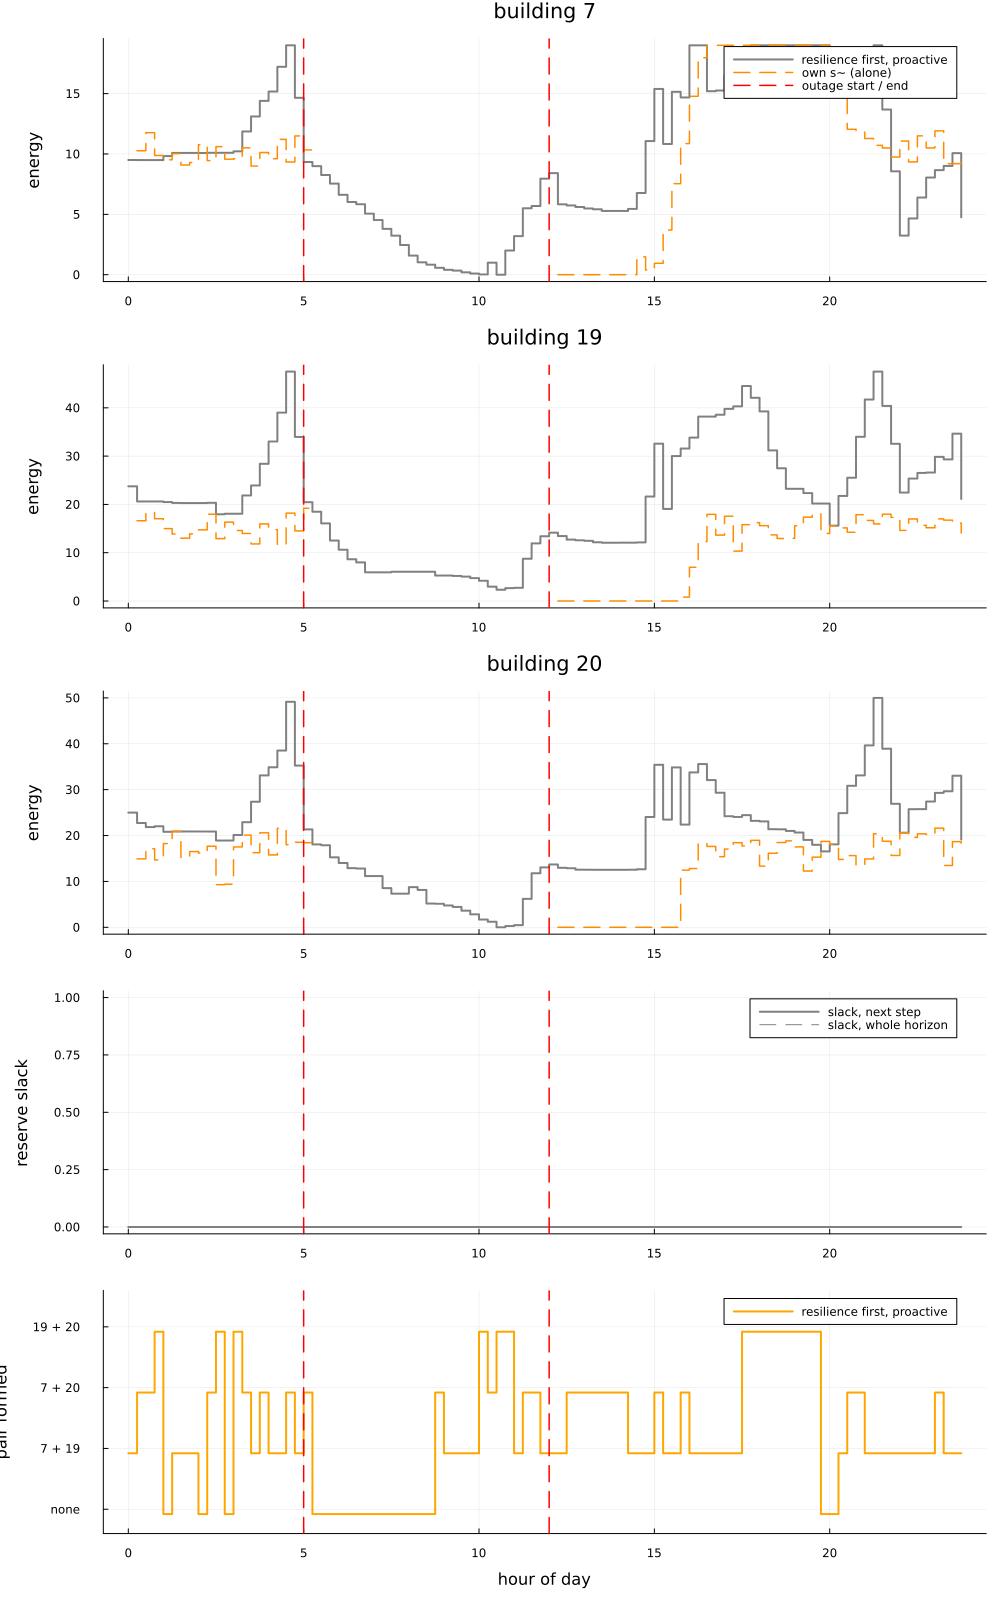
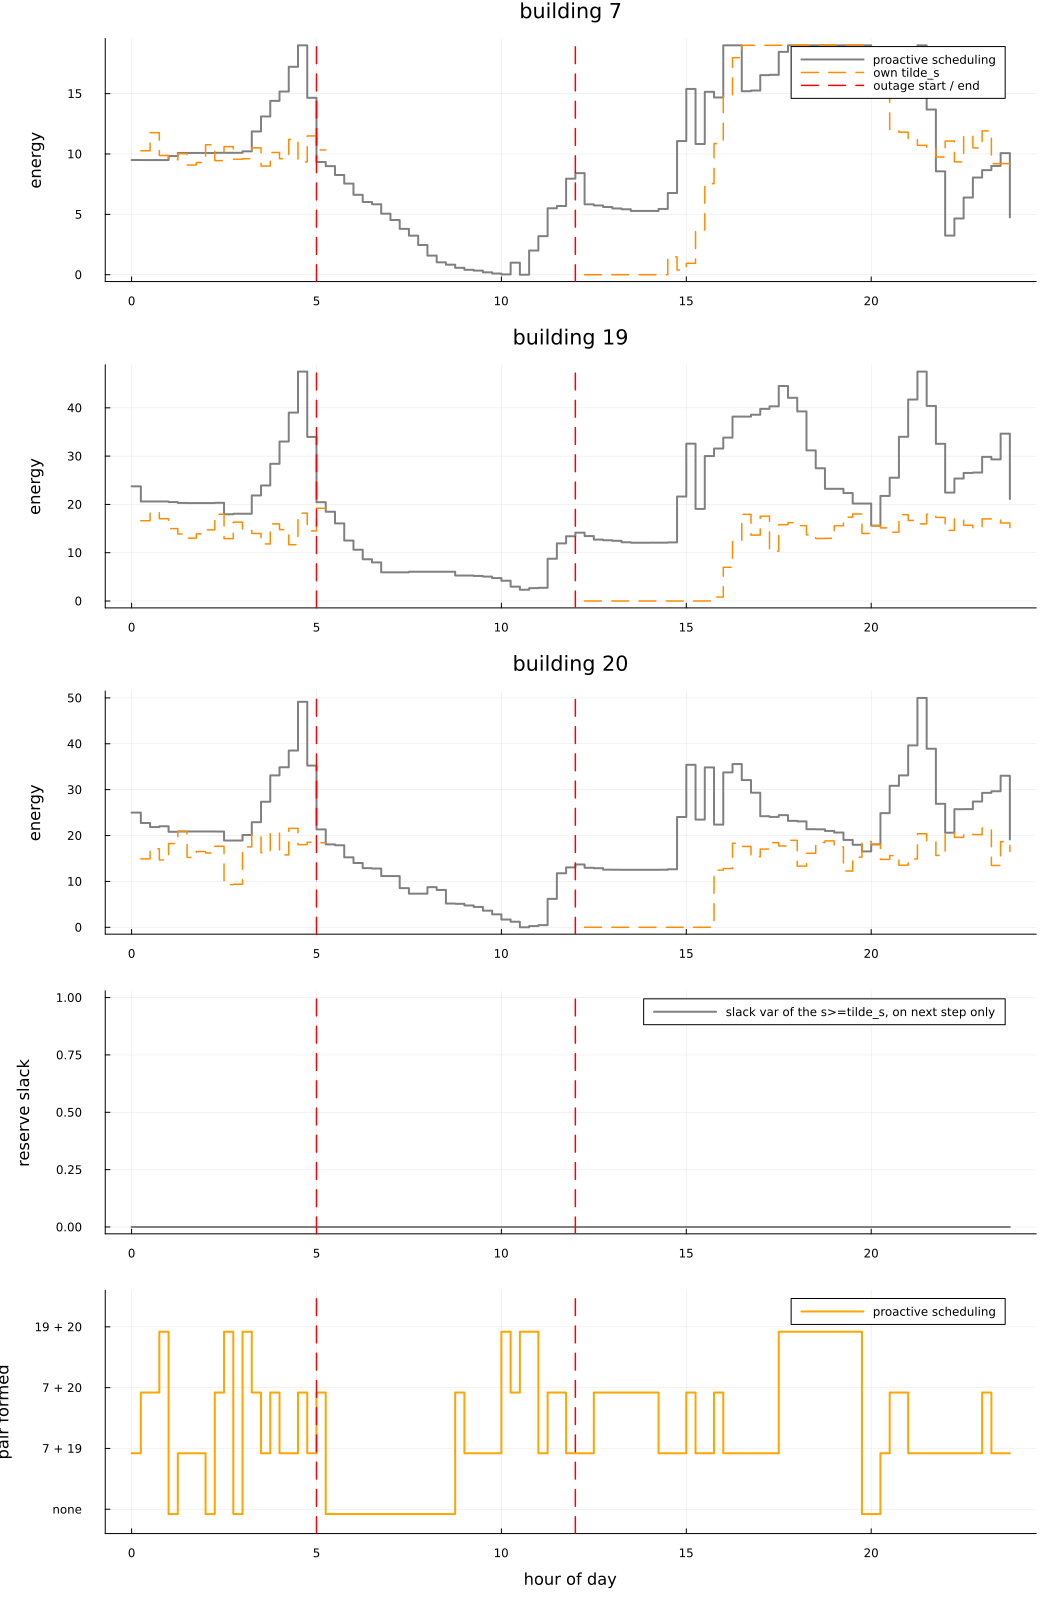
Results refined

diff --git a/resilience/plot_buildings.py b/resilience/plot_buildings.py
@@ -1,21 +1,5 @@
 """
-Plot the load and renewable generation of selected synthetic buildings, one figure per building.
-
-By default it plots the three buildings of resilience/test_three_buildings.jl (IDS = [19, 1, 4]:
-school 19, solar farm 1, office 4) on day 1, i.e. the first 96 rows, which is what that test simulates.
-
-    python synthetic_data/plot_buildings.py                          # buildings 19, 1, 4, day 1
-    python synthetic_data/plot_buildings.py -b 19 1 4 7 --days 2     # other buildings, two days
-    python synthetic_data/plot_buildings.py --start-day 3 --forecast # day 3, with the forecasts
-    python synthetic_data/plot_buildings.py --format png pdf --show
-
-Columns read from cleaned_data/<id>.csv:
-    actual_consumption_mean    realised load (act_cons in the Julia code)
-    actual_pv_mean             realised generation (act_prod); wind power for the *_wind sites
-    load_00_mean, pv_00_mean   with --forecast: the forecast made at a step for that same step
-
-generate_synthetic_data.jl does not state units. The Julia optimiser adds these numbers straight to the
-battery state of charge at every 15-min step, i.e. it treats them as energy per step.
+Plot the load and generation of selected synthetic buildings, one figure per building。
 """
 import argparse
 import csv
@@ -23,6 +7,7 @@ import sys
 from pathlib import Path
 
 HERE = Path(__file__).resolve().parent
+DATA = HERE.parent / "synthetic_data" / "cleaned_data"
 STEPS_PER_DAY = 96  # 15-min steps
 
 # generate_synthetic_data.jl: 10 archetypes x 3 instances, in this order, so ids 1-3 are solar farms, ...
@@ -30,7 +15,6 @@ ARCHETYPES = ["solar farm", "office", "residential", "industrial", "warehouse pv
               "data center", "school", "restaurant", "coastal wind", "hilltop wind"]
 INSTANCES = 3
 WIND = {"coastal wind", "hilltop wind"}
-NO_GENERATION = {"industrial", "data center", "restaurant"}
 COLUMNS = ["actual_consumption_mean", "actual_pv_mean", "load_00_mean", "pv_00_mean"]
 
 
@@ -41,7 +25,7 @@ def archetype(bid):
 def read_building(bid, first_row, n_rows):
     """Rows first_row .. first_row + n_rows - 1 (0-based, header excluded) of the columns in COLUMNS."""
     data = {c: [] for c in COLUMNS}
-    with open(HERE / "cleaned_data" / f"{bid}.csv", newline="") as f:
+    with open(DATA / f"{bid}.csv", newline="") as f:
         for i, row in enumerate(csv.DictReader(f)):
             if i < first_row:
                 continue
@@ -53,46 +37,41 @@ def read_building(bid, first_row, n_rows):
 
 
 def plot_building(plt, bid, data, first_row, args):
-    kind = archetype(bid)
-    if kind in WIND:
-        gen = "wind generation"
-    elif kind in NO_GENERATION:
-        gen = "generation (none for this archetype)"
-    else:
-        gen = "PV generation"
+    gen = "wind generation" if archetype(bid) in WIND else "PV generation"
     n = len(data["actual_consumption_mean"])
     hours = [(first_row + i) / 4 for i in range(n)]  # hours from 00:00 of day 1
 
-    fig, ax = plt.subplots(figsize=(11, 4.2))
+    fig, ax = plt.subplots(figsize=(11, 3.8))
     # each value holds over its 15-min step, as :steppost in the Julia plots
-    ax.step(hours, data["actual_consumption_mean"], where="post", color="firebrick", lw=1.8,
-            label="load (actual_consumption_mean)")
-    ax.step(hours, data["actual_pv_mean"], where="post", color="seagreen", lw=1.8,
-            label=f"{gen} (actual_pv_mean)")
+    ax.step(hours, data["actual_consumption_mean"], where="post", color="firebrick", lw=1.8, label="load")
+    ax.step(hours, data["actual_pv_mean"], where="post", color="seagreen", lw=1.8, label=gen)
     if args.forecast:
         ax.step(hours, data["load_00_mean"], where="post", color="firebrick", lw=1, ls="--", alpha=0.7,
-                label="load forecast for the same step (load_00_mean)")
+                label="load forecast")
         ax.step(hours, data["pv_00_mean"], where="post", color="seagreen", lw=1, ls="--", alpha=0.7,
-                label="generation forecast for the same step (pv_00_mean)")
+                label="generation forecast")
+    if args.outage:  # start of step START and end of step STOP, as in test_three_buildings.jl
+        start, stop = args.outage
+        for i, x in enumerate([(start - 1) / 4, stop / 4]):
+            ax.axvline(x, color="red", ls="--", lw=1.5, label="outage start / end" if i == 0 else None)
 
     first_day = first_row // STEPS_PER_DAY + 1
     last_day = (first_row + n - 1) // STEPS_PER_DAY + 1
     for d in range(first_day, last_day):  # day boundaries
         ax.axvline(d * 24, color="gray", lw=0.8, ls=":")
-    step = 3 if last_day == first_day else 12
+    step = 5 if last_day == first_day else 12
     ax.set_xticks(range(int(hours[0]), int(hours[-1]) + 2, step))
     ax.set_xlim(hours[0], hours[-1] + 0.25)
-    days = f"day {first_day}" if last_day == first_day else f"days {first_day}-{last_day}"
-    ax.set_title(f"{kind} {bid}: load and {gen}, {days}")
-    ax.set_xlabel("hour (from 00:00 of day 1)")
-    ax.set_ylabel("power (15-min mean)")
+    ax.set_title(f"building {bid}")
+    ax.set_xlabel("hour of day")
+    ax.set_ylabel("energy")
     ax.grid(alpha=0.3)
-    ax.legend(loc="upper left", fontsize=8)
+    ax.legend(loc="upper right", fontsize=8)
     fig.tight_layout()
 
     saved = []
     for fmt in args.format:
-        path = args.outdir / f"building_{bid}_{kind.replace(' ', '_')}.{fmt}"
+        path = args.outdir / f"building_{bid}.{fmt}"
         fig.savefig(path, dpi=150)
         saved.append(path)
     return fig, saved
@@ -100,12 +79,14 @@ def plot_building(plt, bid, data, first_row, args):
 
 def main():
     p = argparse.ArgumentParser(description=__doc__, formatter_class=argparse.RawDescriptionHelpFormatter)
-    p.add_argument("-b", "--buildings", type=int, nargs="+", default=[19, 1, 4],
-                   help="building ids, 1-30 (default: 19 1 4, as in test_three_buildings.jl)")
+    p.add_argument("-b", "--buildings", type=int, nargs="+", default=[7, 19, 20],
+                   help="building ids, 1-30 (default: 7 19 20)")
     p.add_argument("--days", type=int, default=1, help="number of days to plot (default 1)")
     p.add_argument("--start-day", type=int, default=1, help="first day, 1-7 (default 1)")
     p.add_argument("--forecast", action="store_true", help="also draw load_00_mean and pv_00_mean")
-    p.add_argument("--outdir", type=Path, default=HERE / "plots", help="output folder (default synthetic_data/plots)")
+    p.add_argument("--outage", type=int, nargs=2, metavar=("START", "STOP"),
+                   help="mark an outage from step START to step STOP (both included)")
+    p.add_argument("--outdir", type=Path, default=HERE / "output", help="output folder (default resilience/output)")
     p.add_argument("--format", nargs="+", default=["png"], choices=["png", "pdf", "svg"])
     p.add_argument("--show", action="store_true", help="also open the figures")
     args = p.parse_args()
@@ -119,8 +100,8 @@ def main():
     n_rows = args.days * STEPS_PER_DAY
     args.outdir.mkdir(parents=True, exist_ok=True)
     for bid in args.buildings:
-        if not (HERE / "cleaned_data" / f"{bid}.csv").exists():
-            sys.exit(f"no file cleaned_data/{bid}.csv")
+        if not (DATA / f"{bid}.csv").exists():
+            sys.exit(f"no file {DATA / f'{bid}.csv'}")
         data = read_building(bid, first_row, n_rows)
         if not data["actual_consumption_mean"]:
             sys.exit(f"building {bid}: no rows from day {args.start_day} on")
